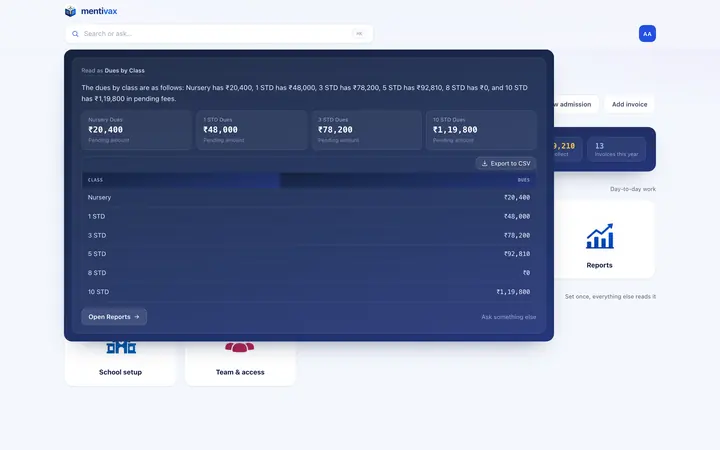
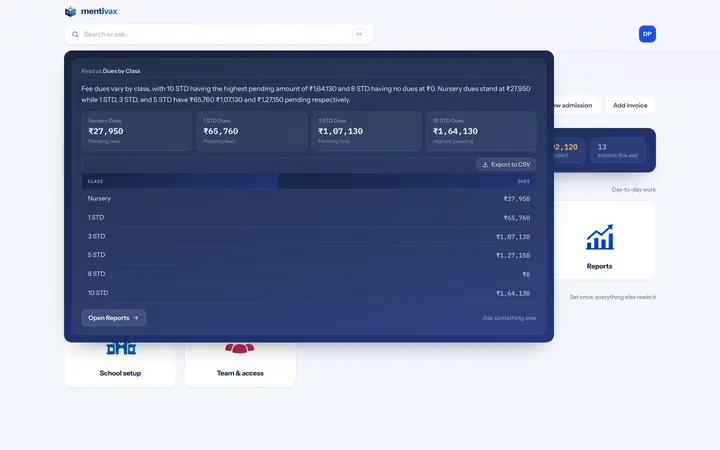
Replace hero screenshots with demo school data
Recaptured the four laptop screens with the seed school, student and
guardian names, phone numbers and amounts replaced by demo values
(Demo Public School, placeholder names, amounts scaled x1.37).

diff --git a/sw.js b/sw.js
@@ -1,4 +1,4 @@
-const CACHE_NAME = 'mentivax-v11';
+const CACHE_NAME = 'mentivax-v12';
 const ASSETS = [
   '/',
   '/css/style.css',
